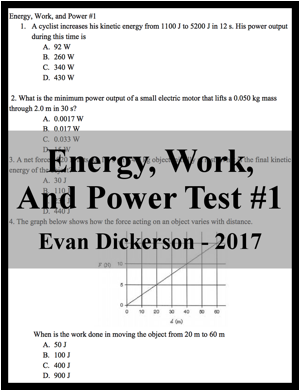
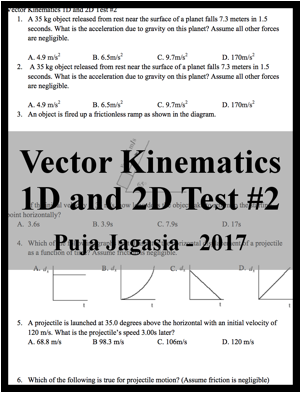
added background

Changed region(s): [[0.03, 0.0, 0.96, 0.9821], [0.78, 0.6752, 0.96, 0.7673], [0.93, 0.6752, 0.96, 0.7059]]

diff --git a/index.html b/index.html
@@ -24,10 +24,10 @@ w\:* {behavior:url(#default#VML);}
  <o:DocumentProperties>
   <o:Author>Alex Lomis</o:Author>
   <o:LastAuthor>Alex Lomis</o:LastAuthor>
-  <o:Revision>6</o:Revision>
-  <o:TotalTime>26</o:TotalTime>
+  <o:Revision>7</o:Revision>
+  <o:TotalTime>27</o:TotalTime>
   <o:Created>2017-05-12T02:12:00Z</o:Created>
-  <o:LastSaved>2017-05-12T02:18:00Z</o:LastSaved>
+  <o:LastSaved>2017-05-12T23:59:00Z</o:LastSaved>
   <o:Pages>2</o:Pages>
   <o:Words>71</o:Words>
   <o:Characters>406</o:Characters>
@@ -40,6 +40,8 @@ w\:* {behavior:url(#default#VML);}
   <o:AllowPNG/>
  </o:OfficeDocumentSettings>
 </xml><![endif]-->
+<link rel=dataStoreItem href="index_files/item0001.xml"
+target=":index_files:props0002.xml">
 <link rel=themeData href="index_files/themedata.xml">
 <!--[if gte mso 9]><xml>
  <w:WordDocument>
@@ -499,8 +501,12 @@ table.MsoTableGrid
  </o:shapelayout></xml><![endif]-->
 </head>
 
-<body bgcolor="#95B3D7" lang=EN-US link=blue vlink=purple style='tab-interval:
-.5in'>
+<body bgcolor=white background="index_files/image001.jpg" lang=EN-US link=blue
+vlink=purple style='tab-interval:.5in'>
+<!--[if gte mso 9]><xml>
+ <v:background id="_x0000_s1031" o:bwmode="white" o:targetscreensize="1024,768">
+  <v:fill src="index_files/image002.jpg" o:title="Wiki-background.jpg" type="frame"/>
+ </v:background></xml><![endif]-->
 
 <div class=WordSection1>
 
@@ -552,9 +558,9 @@ none;text-underline:none'><!--[if gte vml 1]><v:shapetype id="_x0000_t75"
  href="https://drive.google.com/file/d/0B4J142O3WSAxdlUzS2Vyb1VQQ0U/view"
  style='width:299pt;height:391pt;visibility:visible;mso-wrap-style:square'
  o:button="t">
- <v:imagedata src="index_files/image001.png" o:title="VK12D1.png"/>
+ <v:imagedata src="index_files/image003.png" o:title="VK12D1.png"/>
 </v:shape><![endif]--><![if !vml]><img border=0 width=301 height=393
-src="index_files/image002.png"
+src="index_files/image004.png"
 alt="Description: Macintosh HD:Users:AlexLomis:Desktop:VK12D1.png" v:shapes="Picture_x0020_3"><![endif]></span></a><span
 style='font-size:12.0pt;line-height:115%;font-family:Cambria;mso-ascii-theme-font:
 minor-latin;mso-fareast-font-family:"\FF2D\FF33 \660E\671D";mso-fareast-theme-font:
@@ -571,9 +577,9 @@ none;text-underline:none'><!--[if gte vml 1]><v:shape id="Picture_x0020_2"
  href="https://drive.google.com/file/d/0B4J142O3WSAxclhVSm80MkkxbWs/view"
  style='width:299pt;height:391pt;visibility:visible;mso-wrap-style:square'
  o:button="t">
- <v:imagedata src="index_files/image003.png" o:title="VK12D1A.png"/>
+ <v:imagedata src="index_files/image005.png" o:title="VK12D1A.png"/>
 </v:shape><![endif]--><![if !vml]><img border=0 width=301 height=393
-src="index_files/image004.png"
+src="index_files/image006.png"
 alt="Description: Macintosh HD:Users:AlexLomis:Desktop:VK12D1A.png" v:shapes="Picture_x0020_2"><![endif]></span></a><span
 style='font-size:12.0pt;line-height:115%;font-family:Cambria;mso-ascii-theme-font:
 minor-latin;mso-fareast-font-family:"\FF2D\FF33 \660E\671D";mso-fareast-theme-font:
@@ -600,9 +606,9 @@ text-underline:none'><!--[if gte vml 1]><v:shape id="Picture_x0020_11" o:spid="_
  style='width:299pt;height:391pt;visibility:visible;mso-wrap-style:square'
  o:button="t">
  <v:fill o:detectmouseclick="t"/>
- <v:imagedata src="index_files/image005.png" o:title=""/>
+ <v:imagedata src="index_files/image007.png" o:title=""/>
 </v:shape><![endif]--><![if !vml]><img border=0 width=301 height=393
-src="index_files/image006.png" v:shapes="Picture_x0020_11"><![endif]></span></a></span><span
+src="index_files/image008.png" v:shapes="Picture_x0020_11"><![endif]></span></a></span><span
 style='font-size:20.0pt;mso-bidi-font-size:23.0pt;line-height:115%;font-family:
 "Times New Roman";mso-fareast-font-family:"\FF2D\FF33 \660E\671D";mso-fareast-theme-font:
 minor-fareast;color:windowtext'><o:p></o:p></span></p>
@@ -624,9 +630,9 @@ text-underline:none'><!--[if gte vml 1]><v:shape id="Picture_x0020_12" o:spid="_
  href="https://drive.google.com/file/d/0B4J142O3WSAxMFo0ZFEwVUZDTWc/view"
  style='width:298pt;height:389pt;visibility:visible;mso-wrap-style:square'
  o:button="t">
- <v:imagedata src="index_files/image007.png" o:title="EWP 1.png"/>
+ <v:imagedata src="index_files/image009.png" o:title="EWP 1.png"/>
 </v:shape><![endif]--><![if !vml]><img border=0 width=300 height=391
-src="index_files/image008.png"
+src="index_files/image010.png"
 alt="Description: Macintosh HD:Users:AlexLomis:Desktop:EWP 1.png" v:shapes="Picture_x0020_12"><![endif]></span></a></span><span
 style='font-size:20.0pt;mso-bidi-font-size:23.0pt;line-height:115%;font-family:
 "Times New Roman";mso-fareast-font-family:"\FF2D\FF33 \660E\671D";mso-fareast-theme-font:
@@ -643,9 +649,9 @@ text-underline:none'><!--[if gte vml 1]><v:shape id="Picture_x0020_13" o:spid="_
  href="https://drive.google.com/file/d/0B4J142O3WSAxOE5ham5BSk00Y0U/view"
  style='width:298pt;height:389pt;visibility:visible;mso-wrap-style:square'
  o:button="t">
- <v:imagedata src="index_files/image009.png" o:title="EWP 1A.png"/>
+ <v:imagedata src="index_files/image011.png" o:title="EWP 1A.png"/>
 </v:shape><![endif]--><![if !vml]><img border=0 width=300 height=391
-src="index_files/image010.png"
+src="index_files/image012.png"
 alt="Description: Macintosh HD:Users:AlexLomis:Desktop:EWP 1A.png" v:shapes="Picture_x0020_13"><![endif]></span></a></span><span
 style='font-size:20.0pt;mso-bidi-font-size:23.0pt;line-height:115%;font-family:
 "Times New Roman";mso-fareast-font-family:"\FF2D\FF33 \660E\671D";mso-fareast-theme-font:
